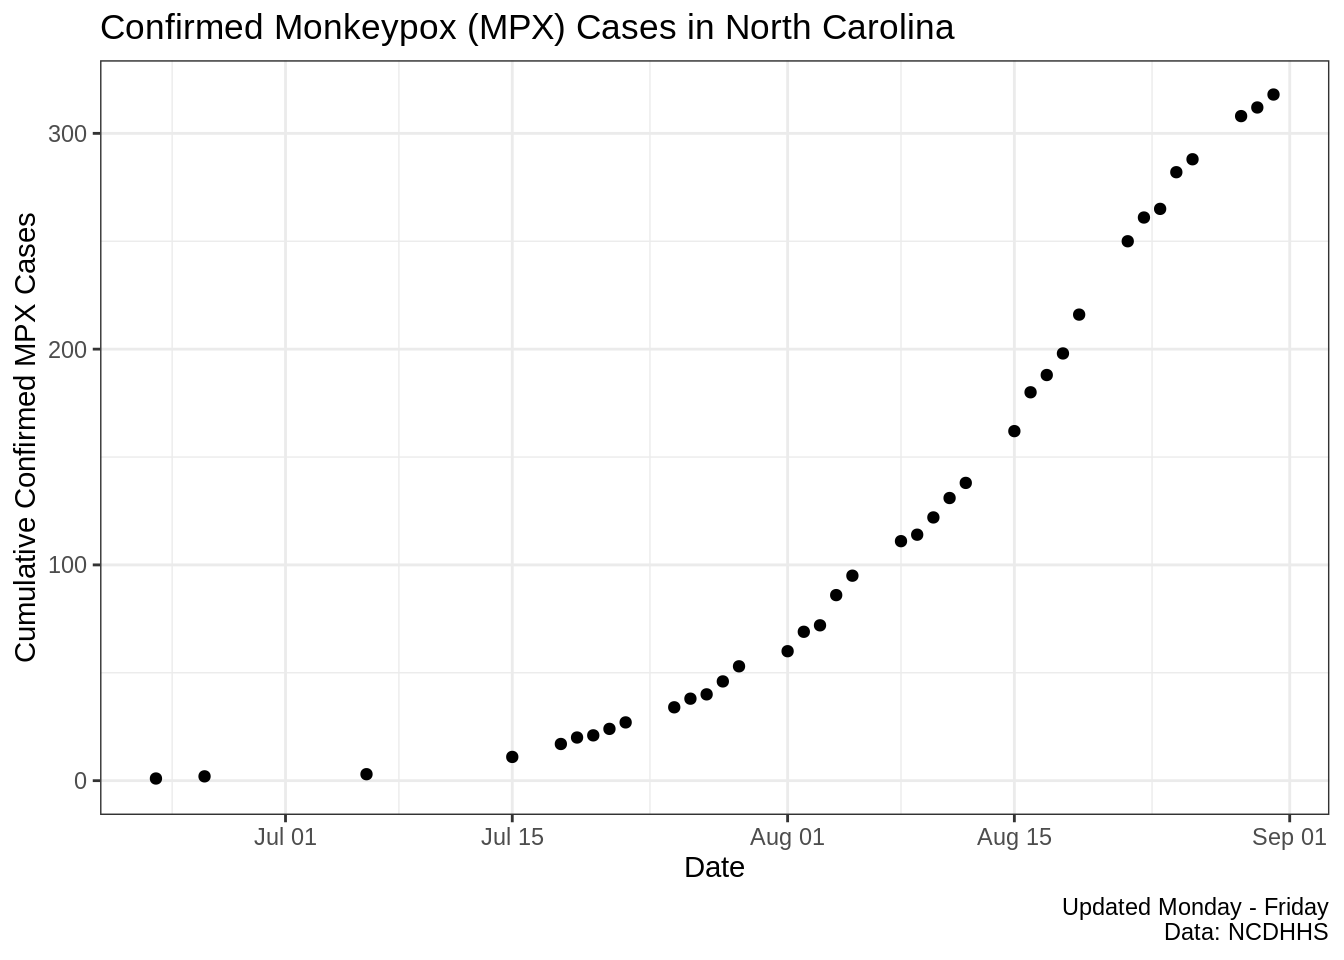
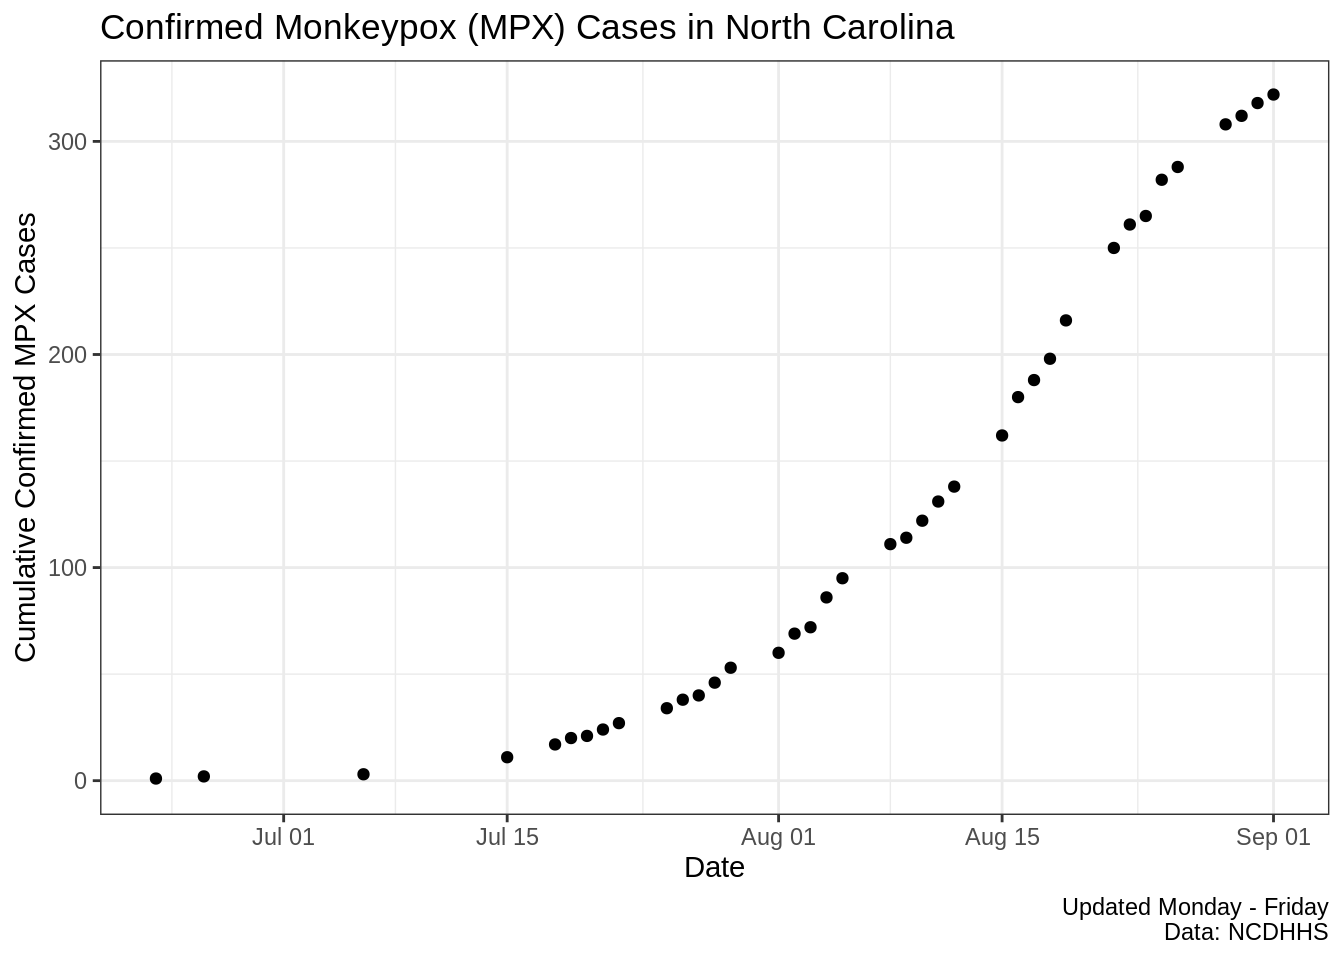
Update the latest data

diff --git a/docs/index.html b/docs/index.html
@@ -139,7 +139,7 @@ ul.task-list li input[type="checkbox"] {
 <div class="cell">
 
 </div>
-<p>These data are current as of 31 August, 2022. Current case incidence suggests a doubling time of 11.3 (95% CI, 10.6-12) days.</p>
+<p>These data are current as of 01 September, 2022. Current case incidence suggests a doubling time of 11.6 (95% CI, 10.8-12.4) days.</p>
 <div class="cell">
 <div class="cell-output-display">
 <p><img src="index_files/figure-html/unnamed-chunk-2-1.png" class="img-fluid" width="672"></p>
